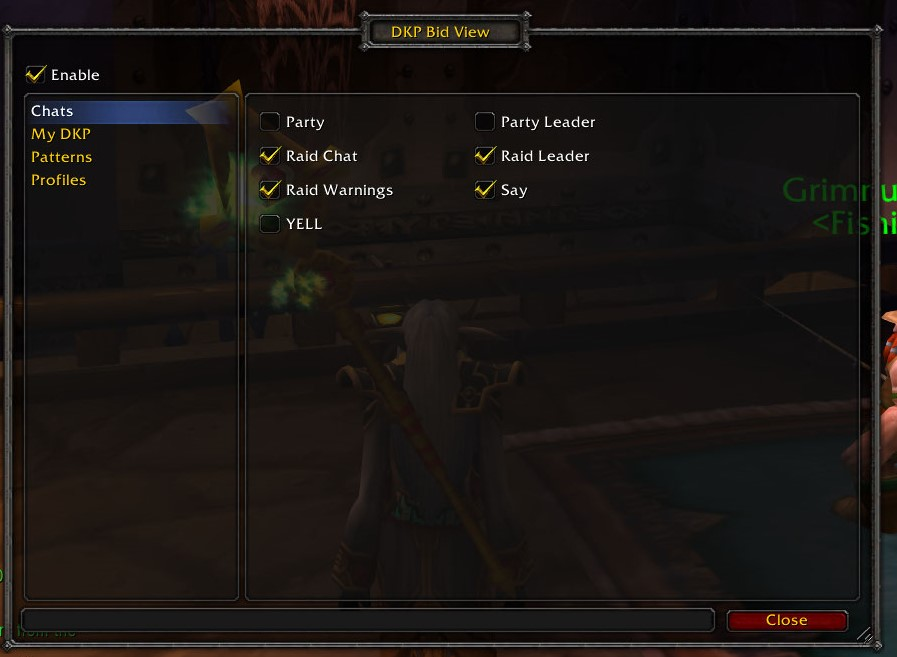
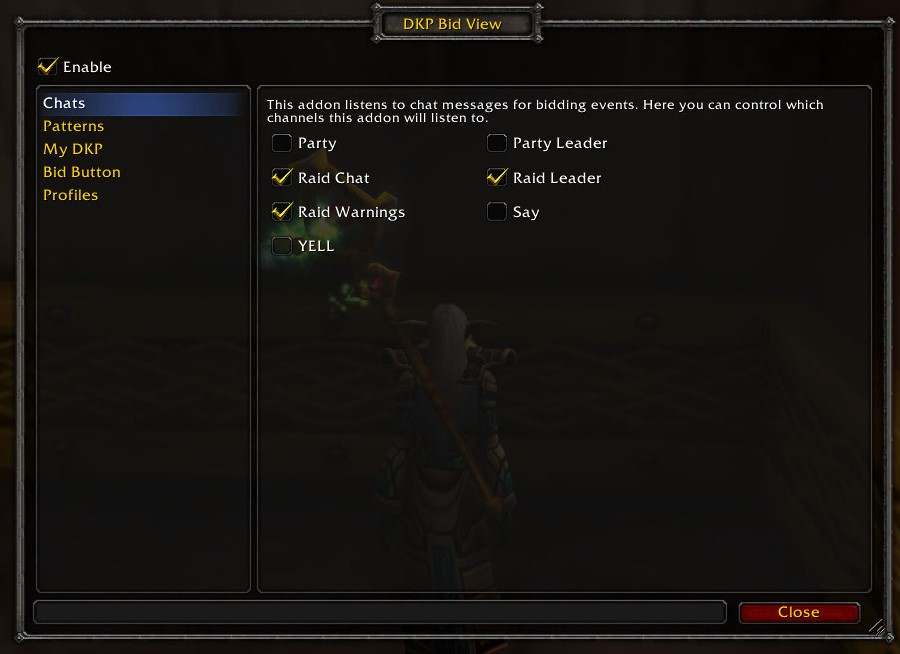
Update screenshots and format the README

diff --git a/README.md b/README.md
@@ -51,7 +51,9 @@ though. I am thinking of a better way to create patterns.
 
 ### Bid Button
 
-The addon comes with a Bid button. When bidding is open one can use it to bid for the current item. It sends a chat message to /raid, /party or /say, depending the current status of the player. The sent message can be controlled in the AddOns settings.
+The addon comes with a Bid button. When bidding is open one can use it to bid for the current
+item. It sends a chat message to /raid, /party or /say, depending the current status of the
+player. The sent message can be controlled in the AddOns settings.
 
 ### My DKP Status
 
